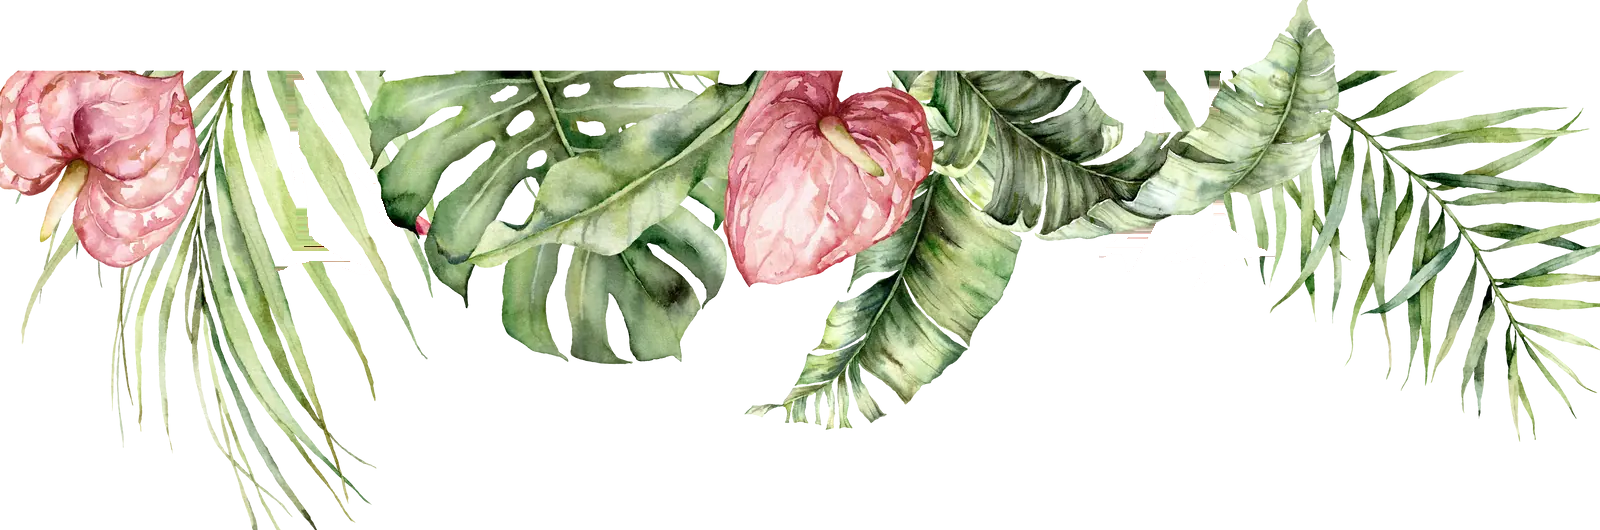
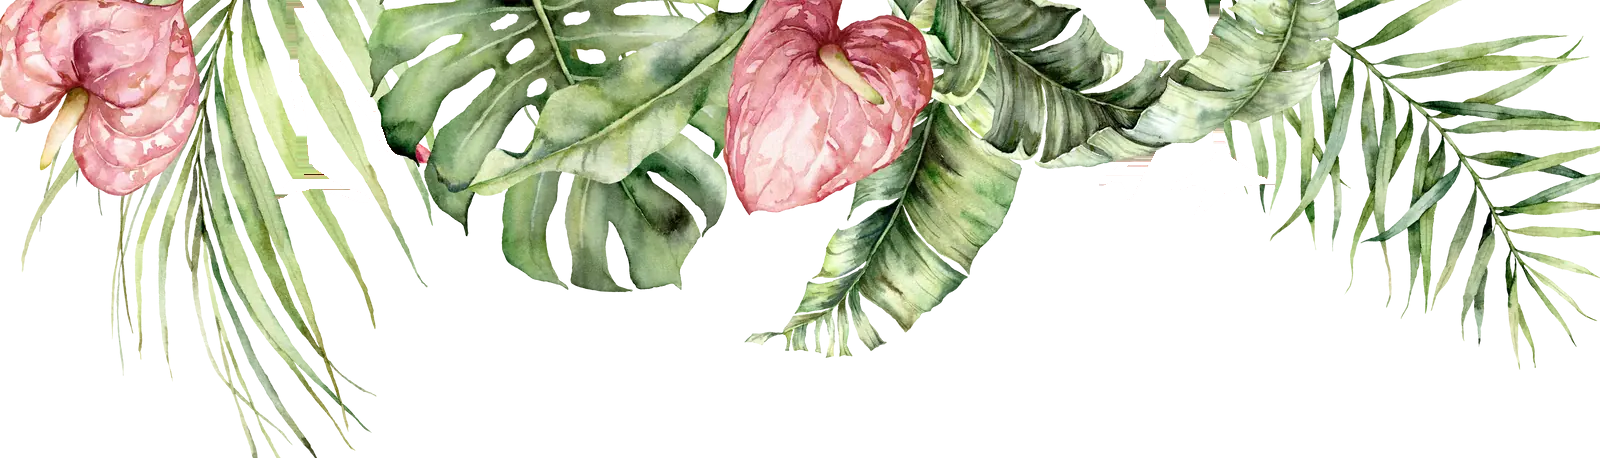
Premium wedding: the leaf garland sits flush against the top edge
The strip carried ~72px of near-empty band above its flat top (one stray
leaf tip): it is now cropped to that edge, and the negative margins that
compensated for the band are gone, so the leaves meet the top of the
screen on phones, tablets, laptops and desktops.

diff --git a/app/(templates)/wedding-invitation-premium/components/wp/css.ts b/app/(templates)/wedding-invitation-premium/components/wp/css.ts
@@ -178,7 +178,8 @@ export const WP_CSS = `
 .wp-hero.is-on .wp-garland { opacity: 1; }
 .wp-garland picture { display: block; flex: 0 0 auto; }
 .wp-garland img { display: block; height: auto; }
-.wp-garland-a { width: 112vw; margin: -4vw -6vw 0; }
+/* the strip is cut flat along its top, so it sits flush against the screen's top edge (no margin) */
+.wp-garland-a { width: 112vw; margin: 0 -6vw; }
 .wp-garland .wp-garland-b { display: none; }
 .wp-scene-top { z-index: 1; }
 .wp-sc-lantern { top: calc(var(--u) * 4); width: calc(var(--u) * 11); --sd: .5s; filter: drop-shadow(0 10px 14px rgba(31,62,87,.16)); }
@@ -226,7 +227,7 @@ export const WP_CSS = `
   .wp-hero { --u: min(1.2vw, .6svh); }
   .wp-sc-couple { left: calc(var(--u) * 2); width: calc(var(--u) * 60); }
   .wp-hero { --gz-r: calc(var(--u) * 2); --gz-h: calc(var(--u) * 62); }
-  .wp-garland-a { width: 104vw; margin: -5vw -2vw 0; }
+  .wp-garland-a { width: 104vw; margin: 0 -2vw; }
   .wp-hero { padding-top: max(150px, 26vw); }
   .wp-sc-lantern { top: 12vw; width: 7vw; }
   .wp-sc-lantern.is-l { left: 10vw; }
@@ -243,7 +244,7 @@ export const WP_CSS = `
   .wp-hero { --gz-r: calc(var(--u) * 5); --gz-h: calc(var(--u) * 70); }
   /* two mirrored strips, each kept to its side of the screen and faded where they meet over the names */
   .wp-garland { justify-content: space-between; }
-  .wp-garland .wp-garland-a, .wp-garland .wp-garland-b { display: block; width: min(44vw, calc(var(--u) * 78)); margin-top: calc(min(44vw, calc(var(--u) * 78)) * -.08); }
+  .wp-garland .wp-garland-a, .wp-garland .wp-garland-b { display: block; width: min(44vw, calc(var(--u) * 78)); margin-top: 0; }
   .wp-garland picture { margin-left: -2vw; }
   .wp-garland-b { margin-right: -2vw; scale: -1 1; }
   .wp-garland-a, .wp-garland-b { -webkit-mask-image: linear-gradient(90deg, #000 62%, transparent 98%); mask-image: linear-gradient(90deg, #000 62%, transparent 98%); }

diff --git a/app/(templates)/wedding-invitation-premium/components/wp/art.ts b/app/(templates)/wedding-invitation-premium/components/wp/art.ts
@@ -52,9 +52,9 @@ export const A = {
   jhumka: { src: `${P}/jhumka-260.webp`, w: 260, h: 521 },
   goldLanterns: { src: `${P}/gold-lanterns-500.webp`, w: 500, h: 500 },
   urn: { src: `${P}/urn-320.webp`, w: 320, h: 452 },
-  // template6's lower border (leaves + anthuriums only; the flamingo legs painted out), the hero's top garland
-  garland: { src: `${P}/leaf-garland-1600.webp`, w: 1600, h: 530 },
-  garlandSm: { src: `${P}/leaf-garland-800.webp`, w: 800, h: 265 },
+  // template6's lower border (leaves + anthuriums only; the flamingo legs painted out), cropped to its flat top edge: the hero's top garland
+  garland: { src: `${P}/leaf-garland-1600.webp`, w: 1600, h: 458 },
+  garlandSm: { src: `${P}/leaf-garland-800.webp`, w: 800, h: 229 },
 } satisfies Record<string, Art>;
 
 export type ArtKey = keyof typeof A;
